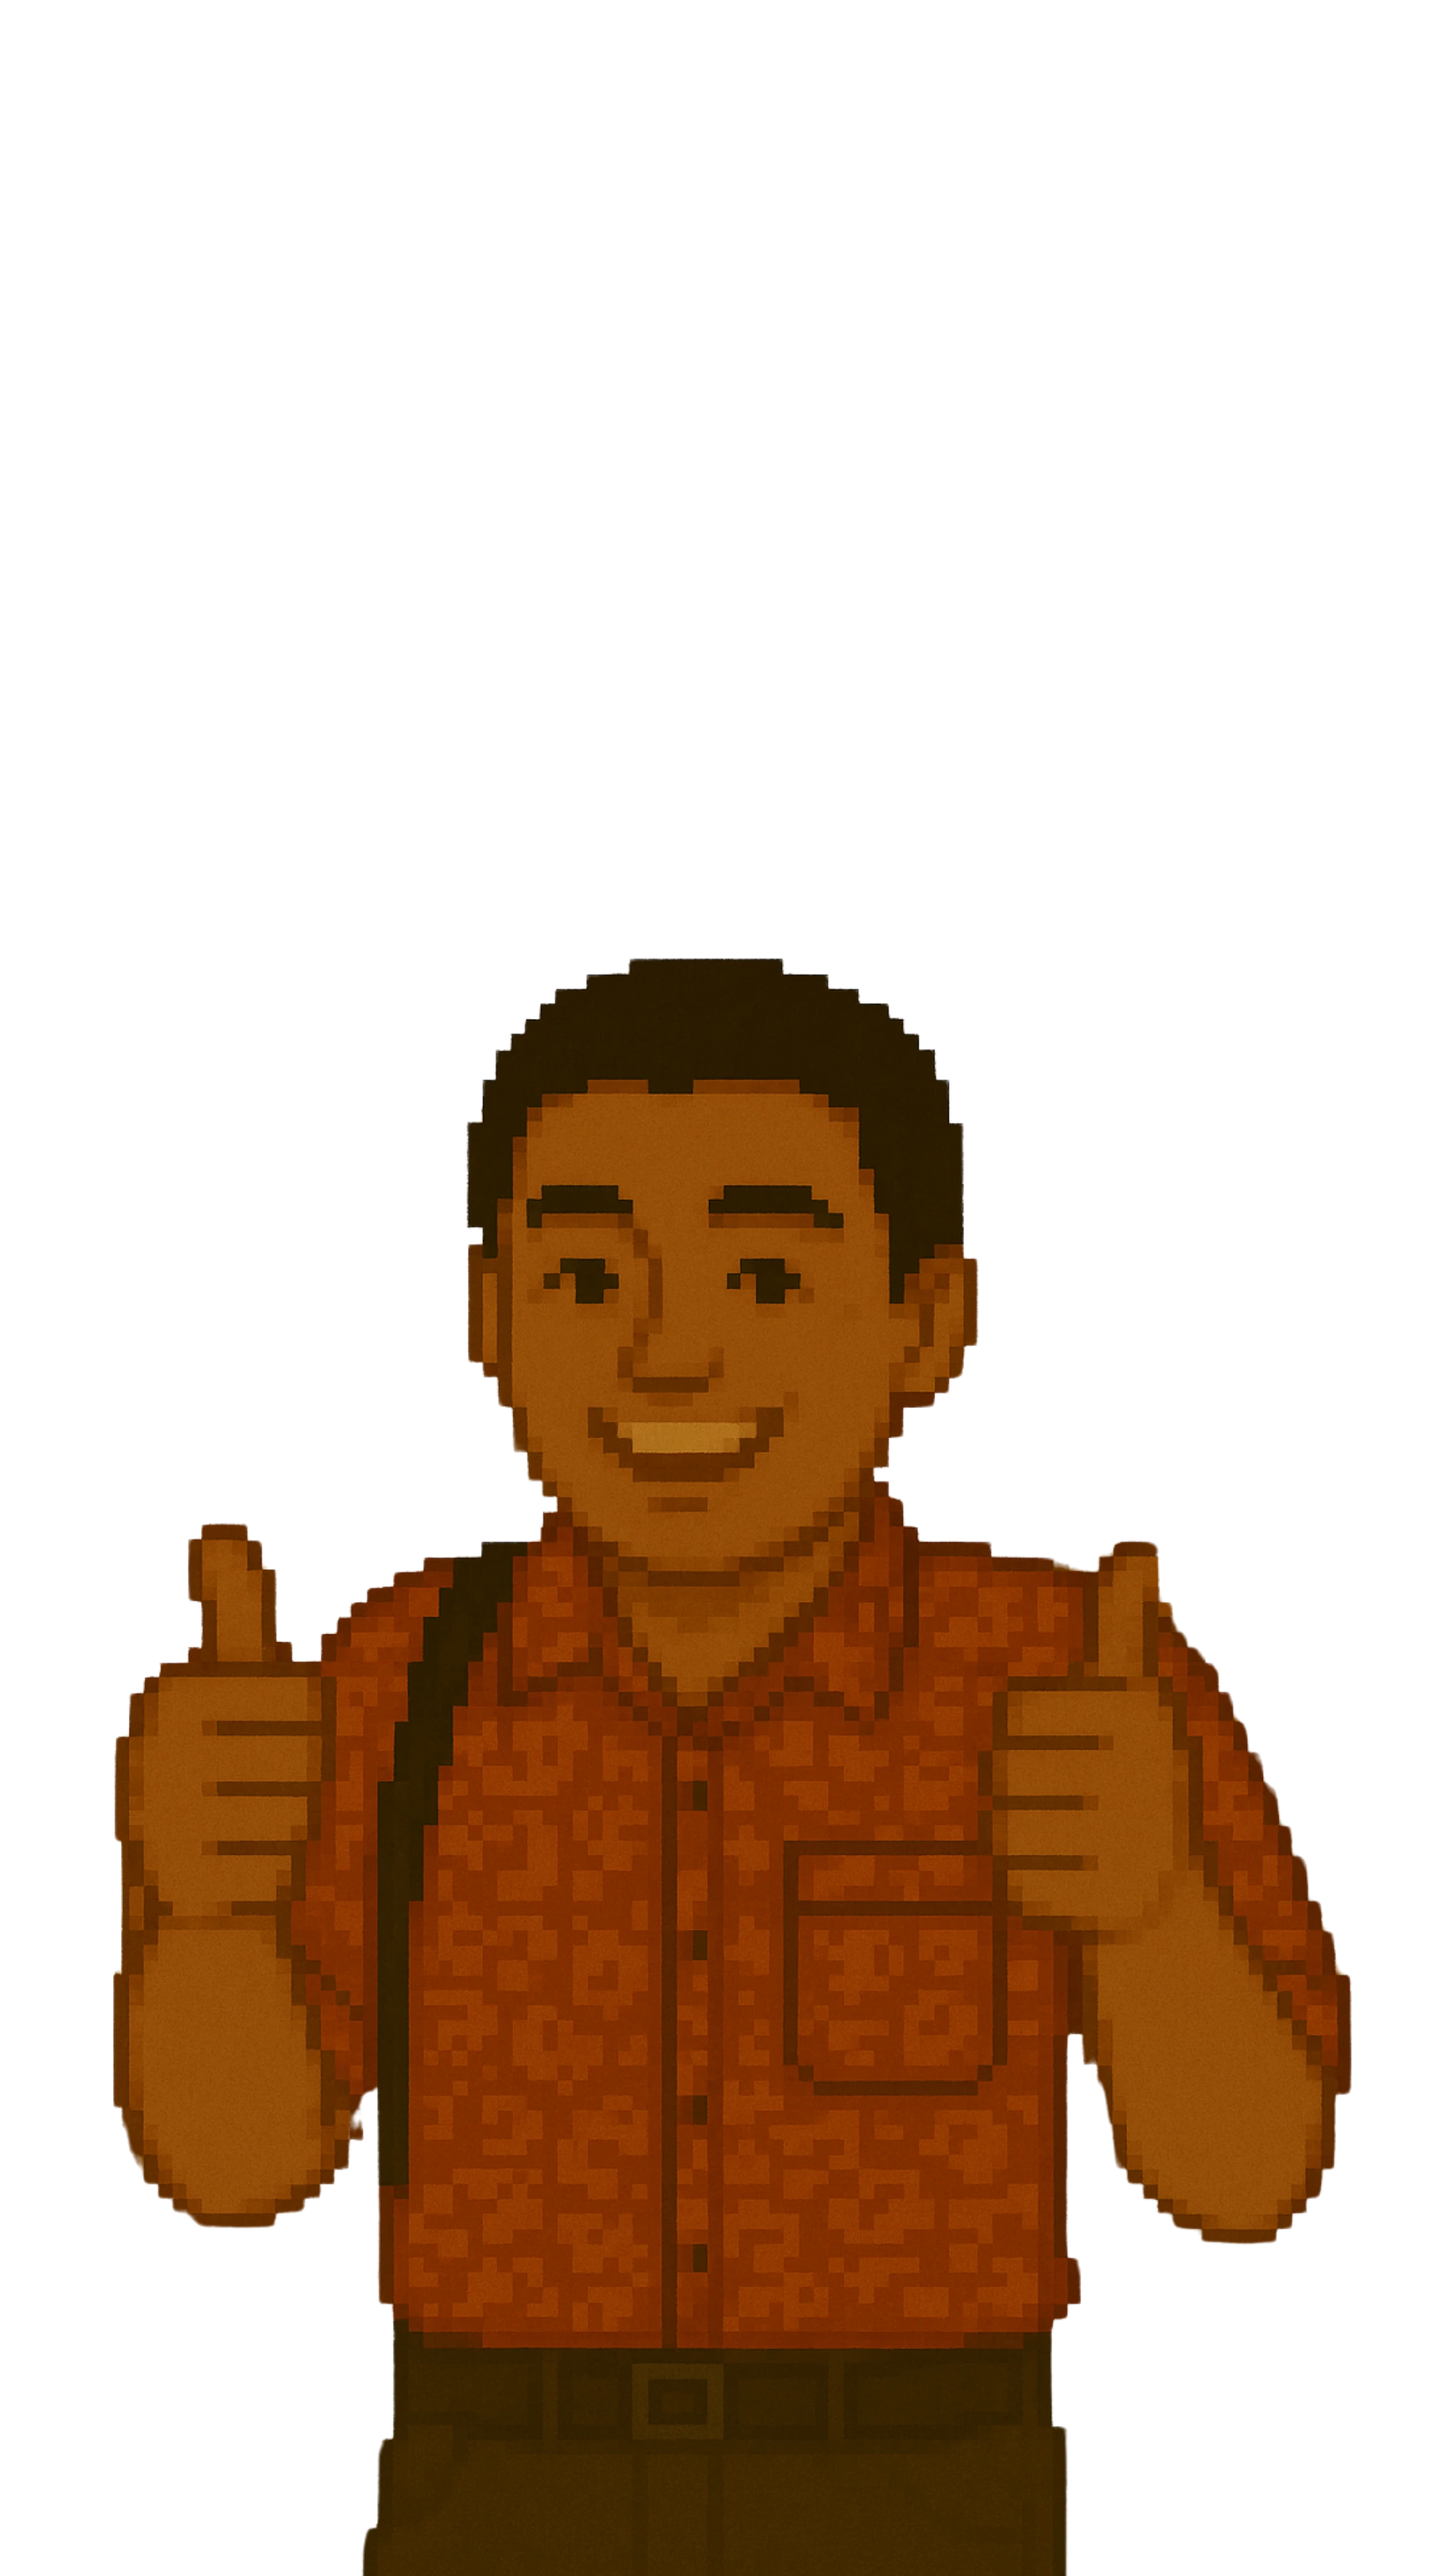
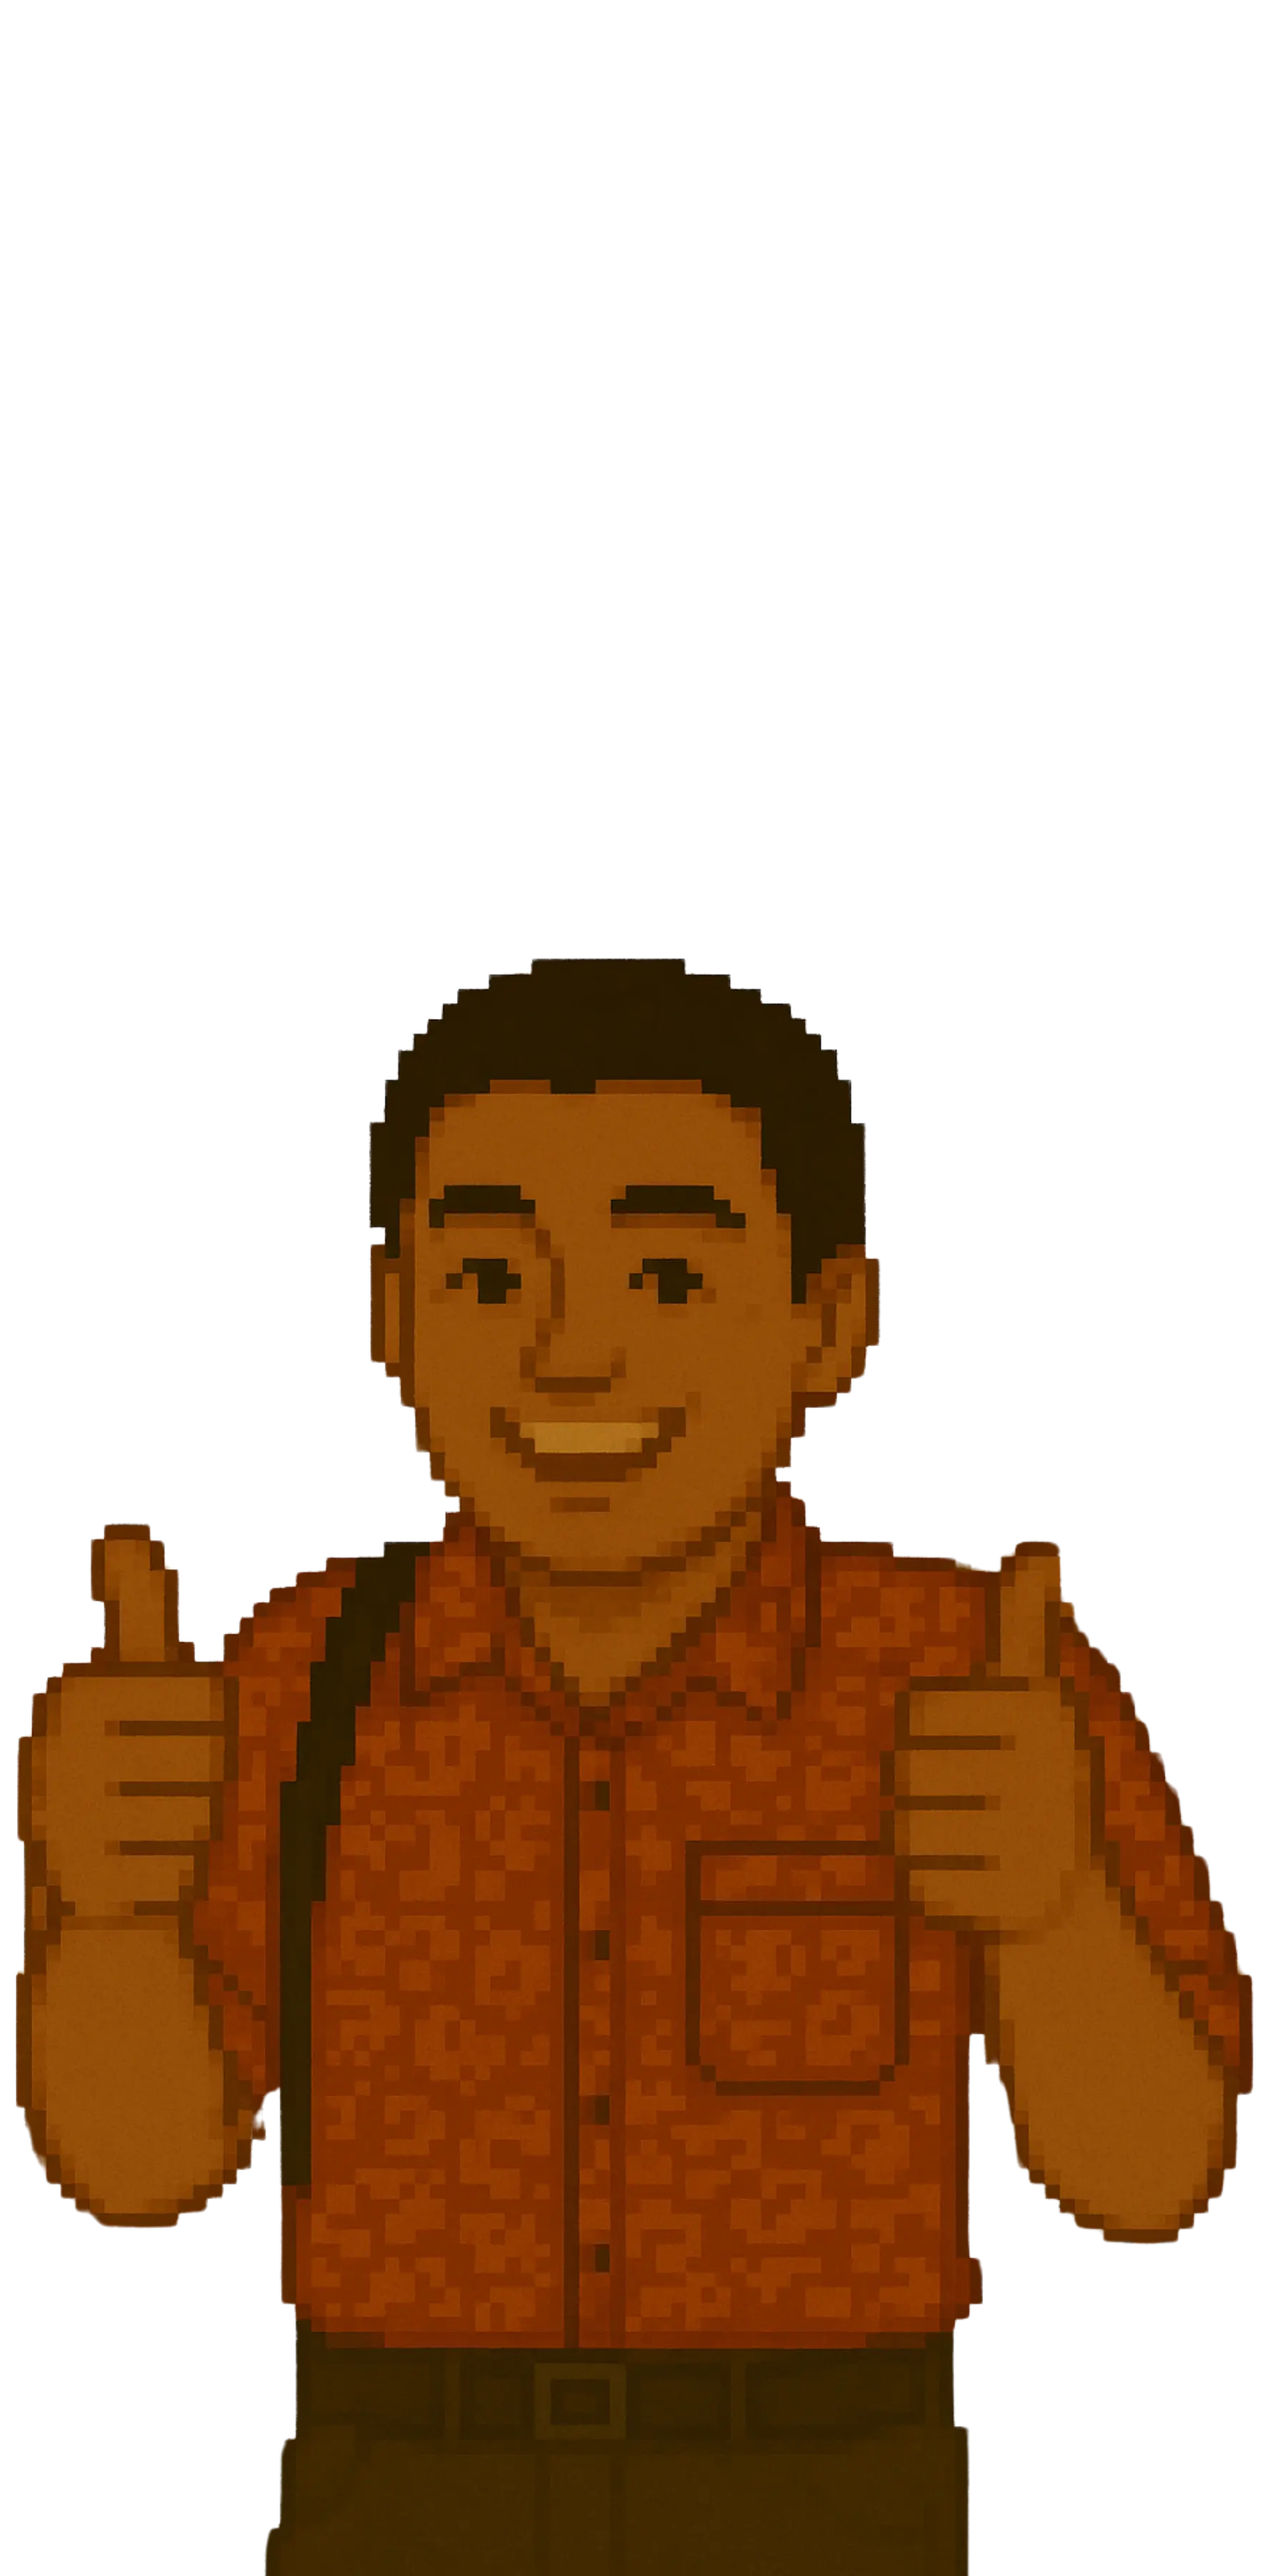
Memperbaiki layout character dan button skip

Changed region(s): [[0.0, 0.3733, 0.4966, 1.0], [0.6518, 0.5911, 0.9932, 1.0], [0.5587, 0.3733, 0.7139, 0.6844]]

diff --git a/lib/games/component/character.dart b/lib/games/component/character.dart
@@ -62,7 +62,7 @@ class StoryCharactersComponent extends Component {
     final image = await _game.images.fromCache(
       'character/$characterNewPath.webp',
     );
-    final height = _game.size.y * 0.375;
+    final height = _game.size.y * 0.475;
     final width = image.width / image.height * height;
 
     final character = indexCharacter == 1 ? person1 : person2;
@@ -92,7 +92,7 @@ class StoryCharactersComponent extends Component {
   //membesarkan karakter
   Future<void> enhancedSizeCharacter(int indexCharacter) async {
     final target = indexCharacter == 1 ? person1 : person2;
-    final height = _game.size.y * 0.45;
+    final height = _game.size.y * 0.525;
     final width = target.sprite!.srcSize.x / target.sprite!.srcSize.y * height;
     final position =
         indexCharacter == 1
@@ -109,7 +109,7 @@ class StoryCharactersComponent extends Component {
   //fungsinya ini untuk mengecilkan karakter ke posisi semula
   Future<void> normalSizeCharacter(int indexCharacter) async {
     final target = indexCharacter == 1 ? person1 : person2;
-    final height = _game.size.y * 0.375;
+    final height = _game.size.y * 0.475;
     final width = target.sprite!.srcSize.x / target.sprite!.srcSize.y * height;
     final position =
         indexCharacter == 1
@@ -148,7 +148,7 @@ class StoryCharactersComponent extends Component {
 
   Future<void> explainingCharacter(int indexCharacter) async {
     final target = indexCharacter == 1 ? person1 : person2;
-    final halfHeight = _game.size.y * 0.3;
+    final halfHeight = _game.size.y * 0.35;
     final halfWidth =
         target.sprite!.srcSize.x / target.sprite!.srcSize.y * halfHeight;
     final halfPosition =

diff --git a/lib/components/skip_button.dart b/lib/components/skip_button.dart
@@ -40,7 +40,7 @@ class SkipButton extends ConsumerWidget {
             right: 0.w,
             child: SafeArea(
               child: Padding(
-                padding: EdgeInsets.only(top: 16.h),
+                padding: EdgeInsets.only(top: 16.h, right: 16.w),
                 child: Container(
                   width: 100.w,
                   height: 38.h,
